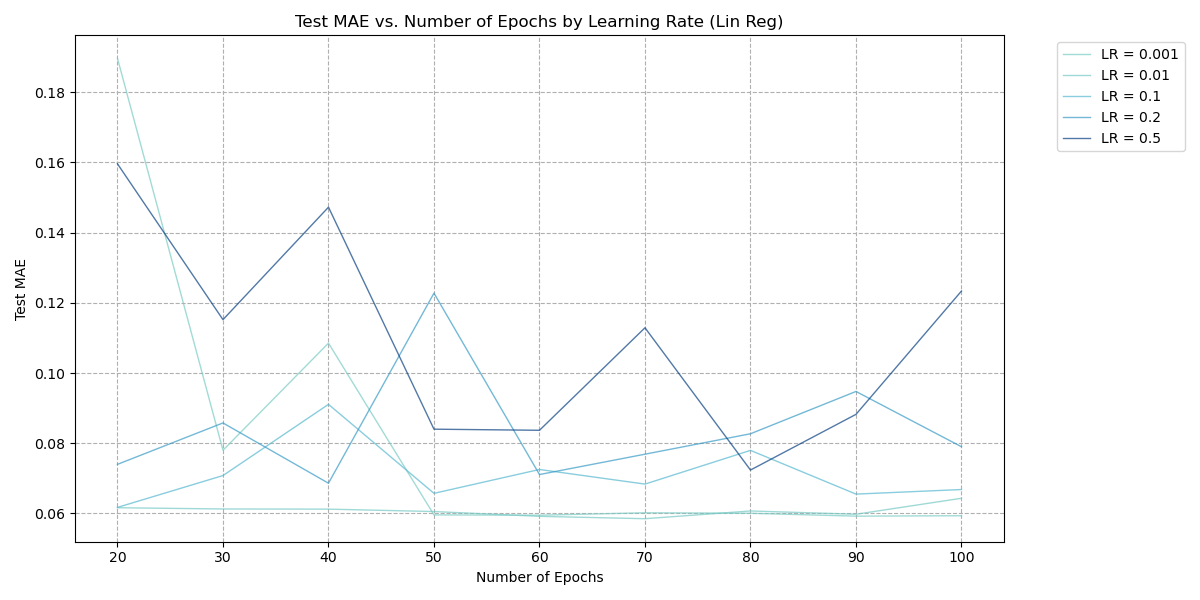
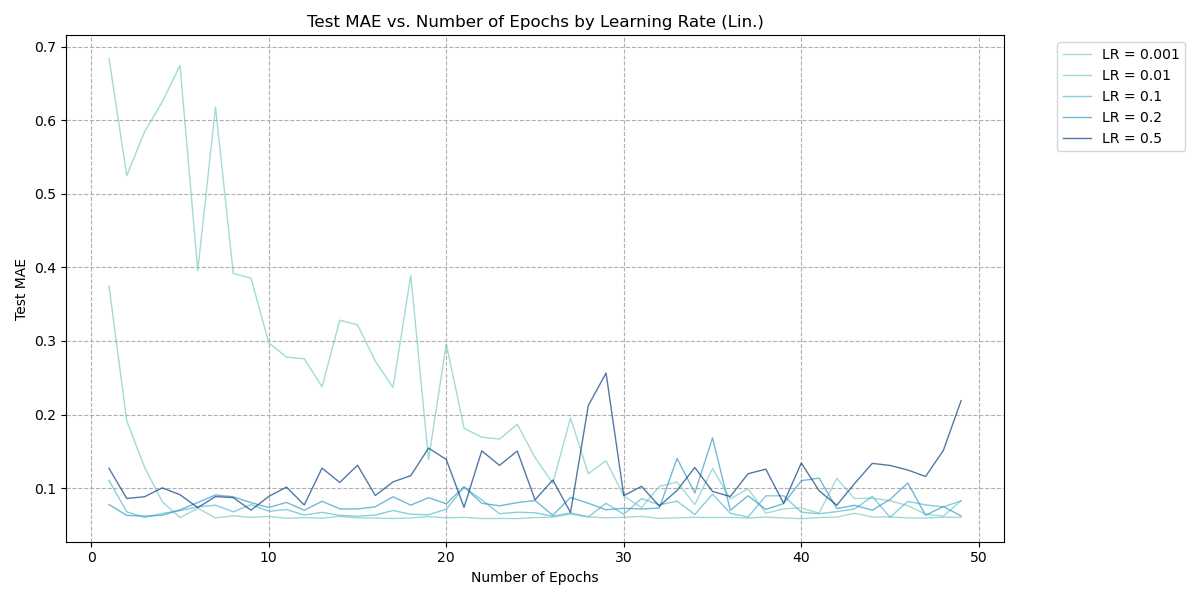
Updated Linear Graphs

diff --git a/lossGraph.py b/lossGraph.py
@@ -4,9 +4,9 @@ import matplotlib.colors as mcolors
 import numpy as np
 
 # Load the data
-df = pd.read_csv('Training Evaluation/trainingResultsDNN.csv')
+df = pd.read_csv('Training Evaluation/trainingResultsLinear.csv')
 
-df = df[df['numEpochs'] <= 20]
+# df = df[df['numEpochs'] <= 20]
 
 # Group by learningRate and sort each group by numEpochs
 groups = df.groupby('learningRate')
@@ -29,7 +29,7 @@ for lr, group in groups:
     sorted_group = group.sort_values('numEpochs')  # Ensure epochs are plotted in order
     ax.plot(
         sorted_group['numEpochs'], 
-        sorted_group['testMae'], 
+        sorted_group['testLoss'], 
         linestyle='-', 
         linewidth=1,  # Thinner lines
         alpha=0.7,  # Slightly transparent
@@ -39,8 +39,8 @@ for lr, group in groups:
 
 # Customize the plot
 ax.set_xlabel('Number of Epochs')
-ax.set_ylabel('Test MAE')
-ax.set_title('Test MAE vs. Number of Epochs by Learning Rate (DNN + Dropout)')
+ax.set_ylabel('Test MSE')
+ax.set_title('Test MSE vs. Number of Epochs by Learning Rate (Lin.)')
 ax.legend(bbox_to_anchor=(1.05, 1), loc='upper left')  # Legend outside the plot
 ax.grid(True, linestyle='--')
 
